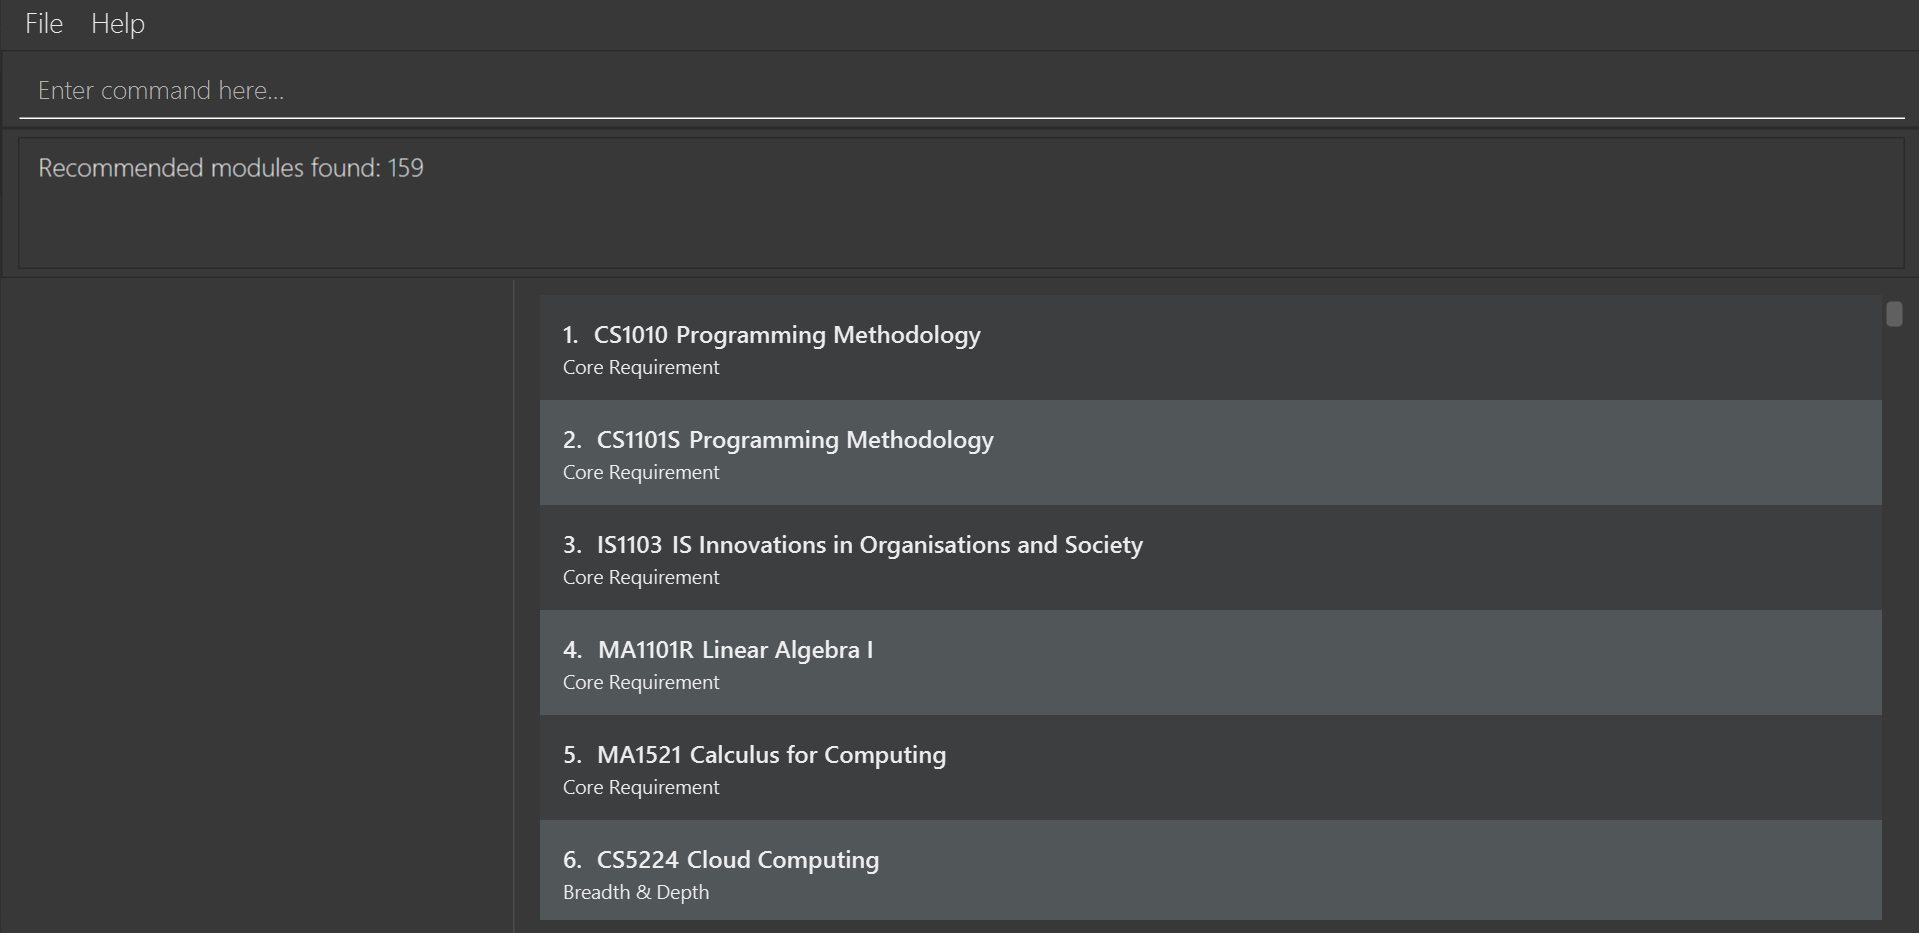
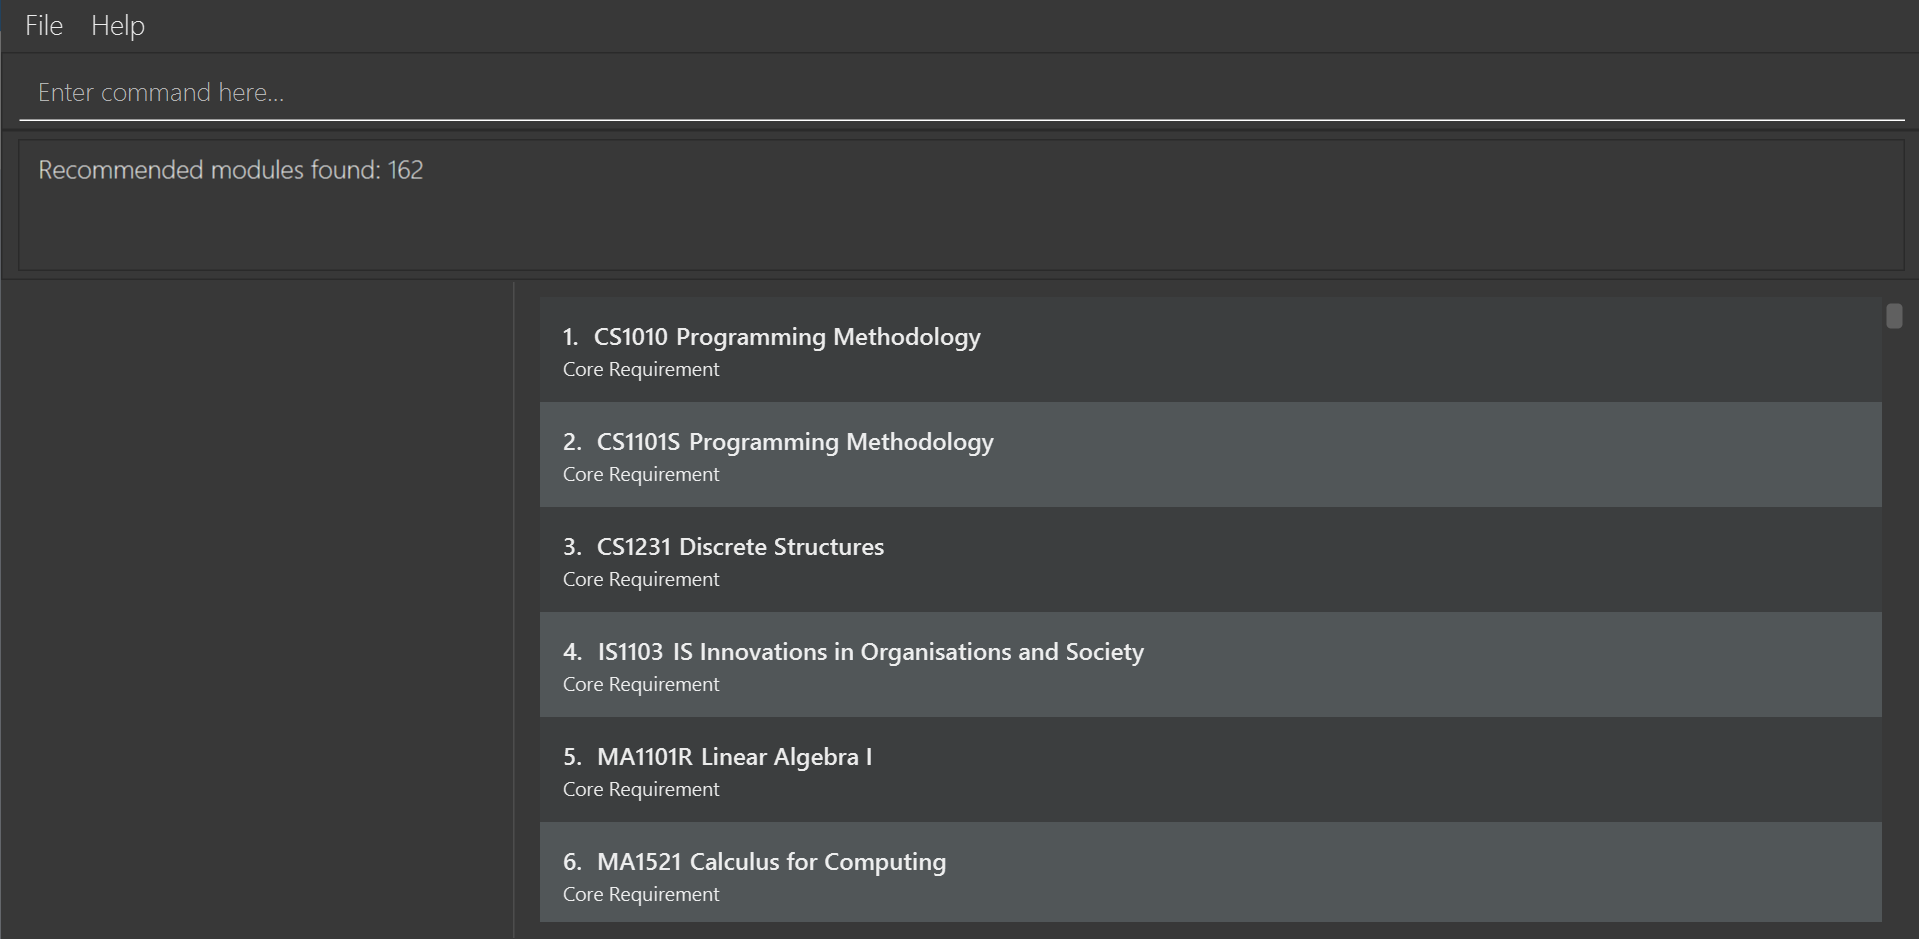
added more mods to a level regex

diff --git a/src/main/java/seedu/address/model/GradTrak.java b/src/main/java/seedu/address/model/GradTrak.java
@@ -32,8 +32,8 @@ public class GradTrak implements ReadOnlyGradTrak {
     private static final int NUM_SEMS = 10;
 
     /* The following accounts for some modules with 'A' level prerequisites */
-    private static final String aLevelRegex =
-            "MA1521|MA1101R|PC1141|PC1142|PC1143|PC1144|CM1401|CM1402|CM1501|CM1502|PC1431";
+    private static final String A_LEVEL_REGEX =
+            "CS1231|MA1521|MA1101R|PC1141|PC1142|PC1143|PC1144|CM1401|CM1402|CM1501|CM1502|PC1431|PC1432|LSM1106";
 
     private Semester currentSemester;
     private final SemesterLimitList semesterLimitList;
@@ -226,7 +226,7 @@ public class GradTrak implements ReadOnlyGradTrak {
     @Override
     public ArrayList<String> getMissingPrerequisites(ModuleTree moduleTree) {
         ArrayList<String> codeStringList = new ArrayList<>();
-        if (moduleTree.getModuleCode().matches(aLevelRegex)) {
+        if (moduleTree.getModuleCode().matches(A_LEVEL_REGEX)) {
             return codeStringList;
         }
         for (ModuleInfoCode code : getNonFailedCodeList()) {

diff --git a/src/test/java/seedu/address/logic/commands/RecCommandTest.java b/src/test/java/seedu/address/logic/commands/RecCommandTest.java
@@ -67,7 +67,7 @@ public class RecCommandTest {
 
     @Test
     public void execute_emptyGradtrak() {
-        String expectedMessage = String.format(MESSAGE_REC, 159);
+        String expectedMessage = String.format(MESSAGE_REC, 162);
 
         model.setCourse(algoCourse.getCourseName());
         expectedModel.setCourse(algoCourse.getCourseName());
